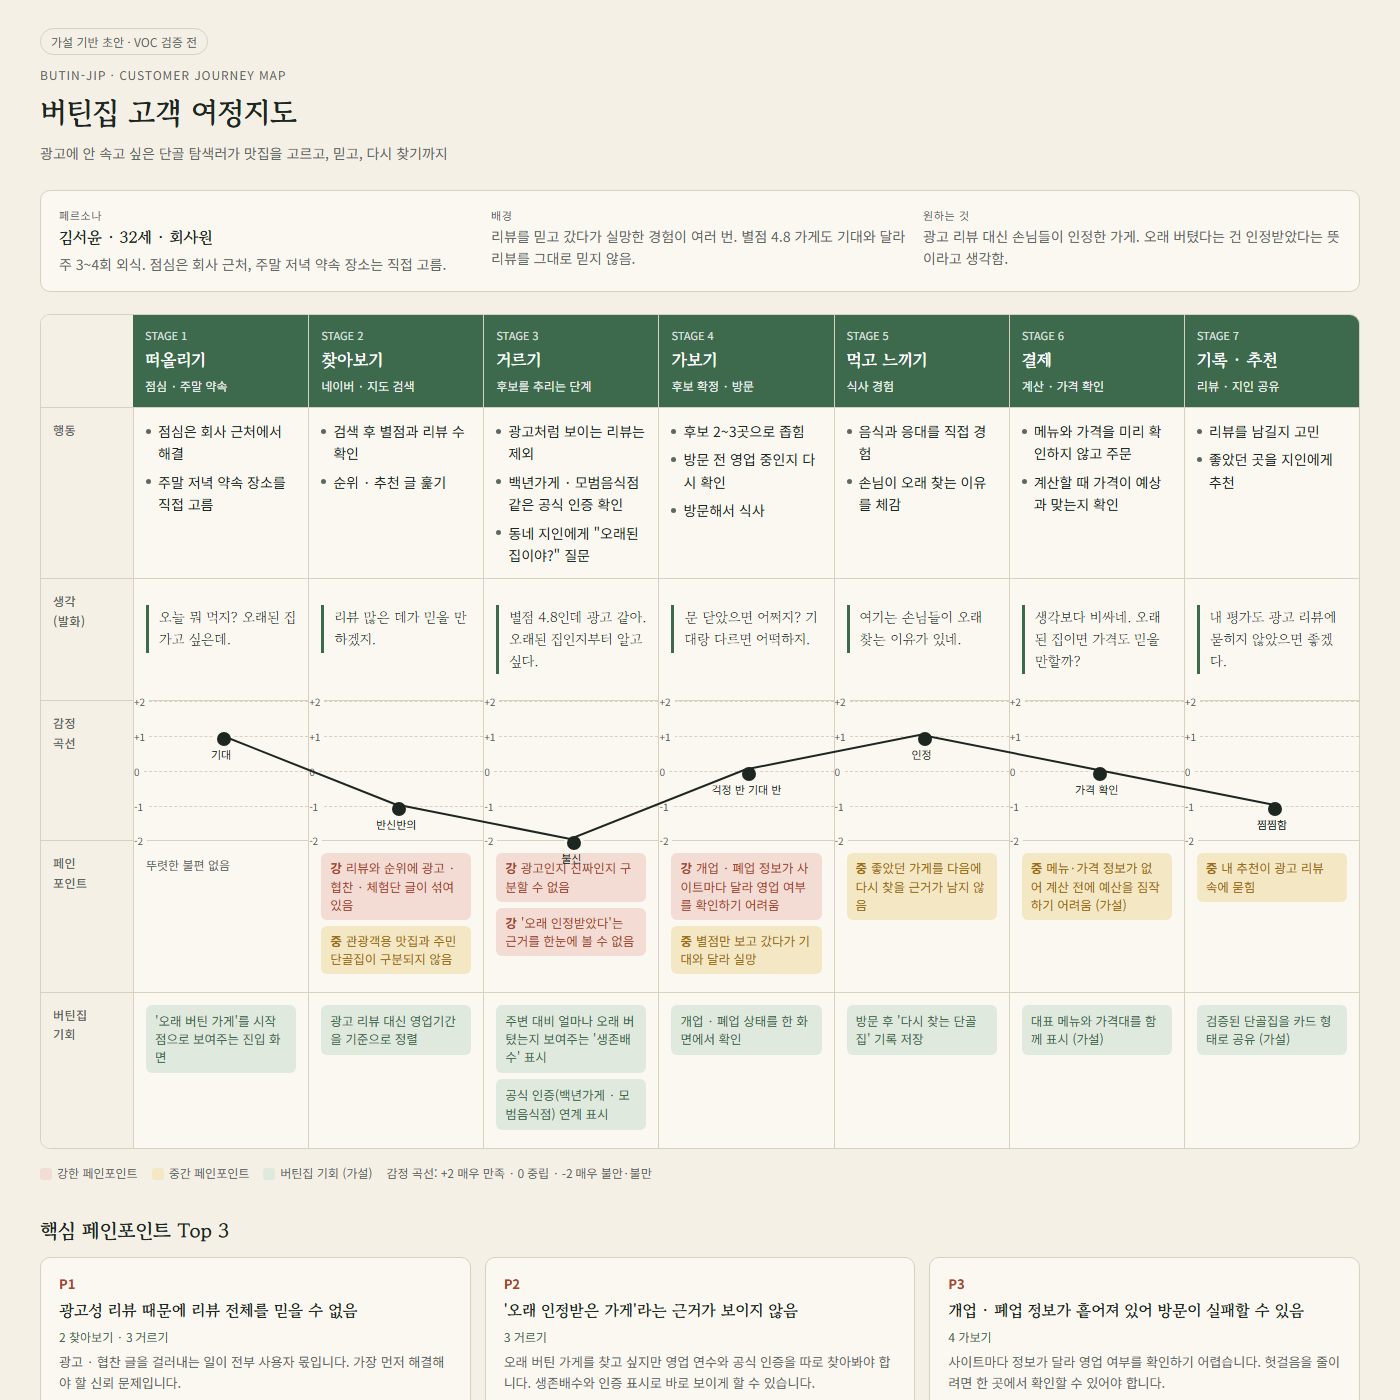
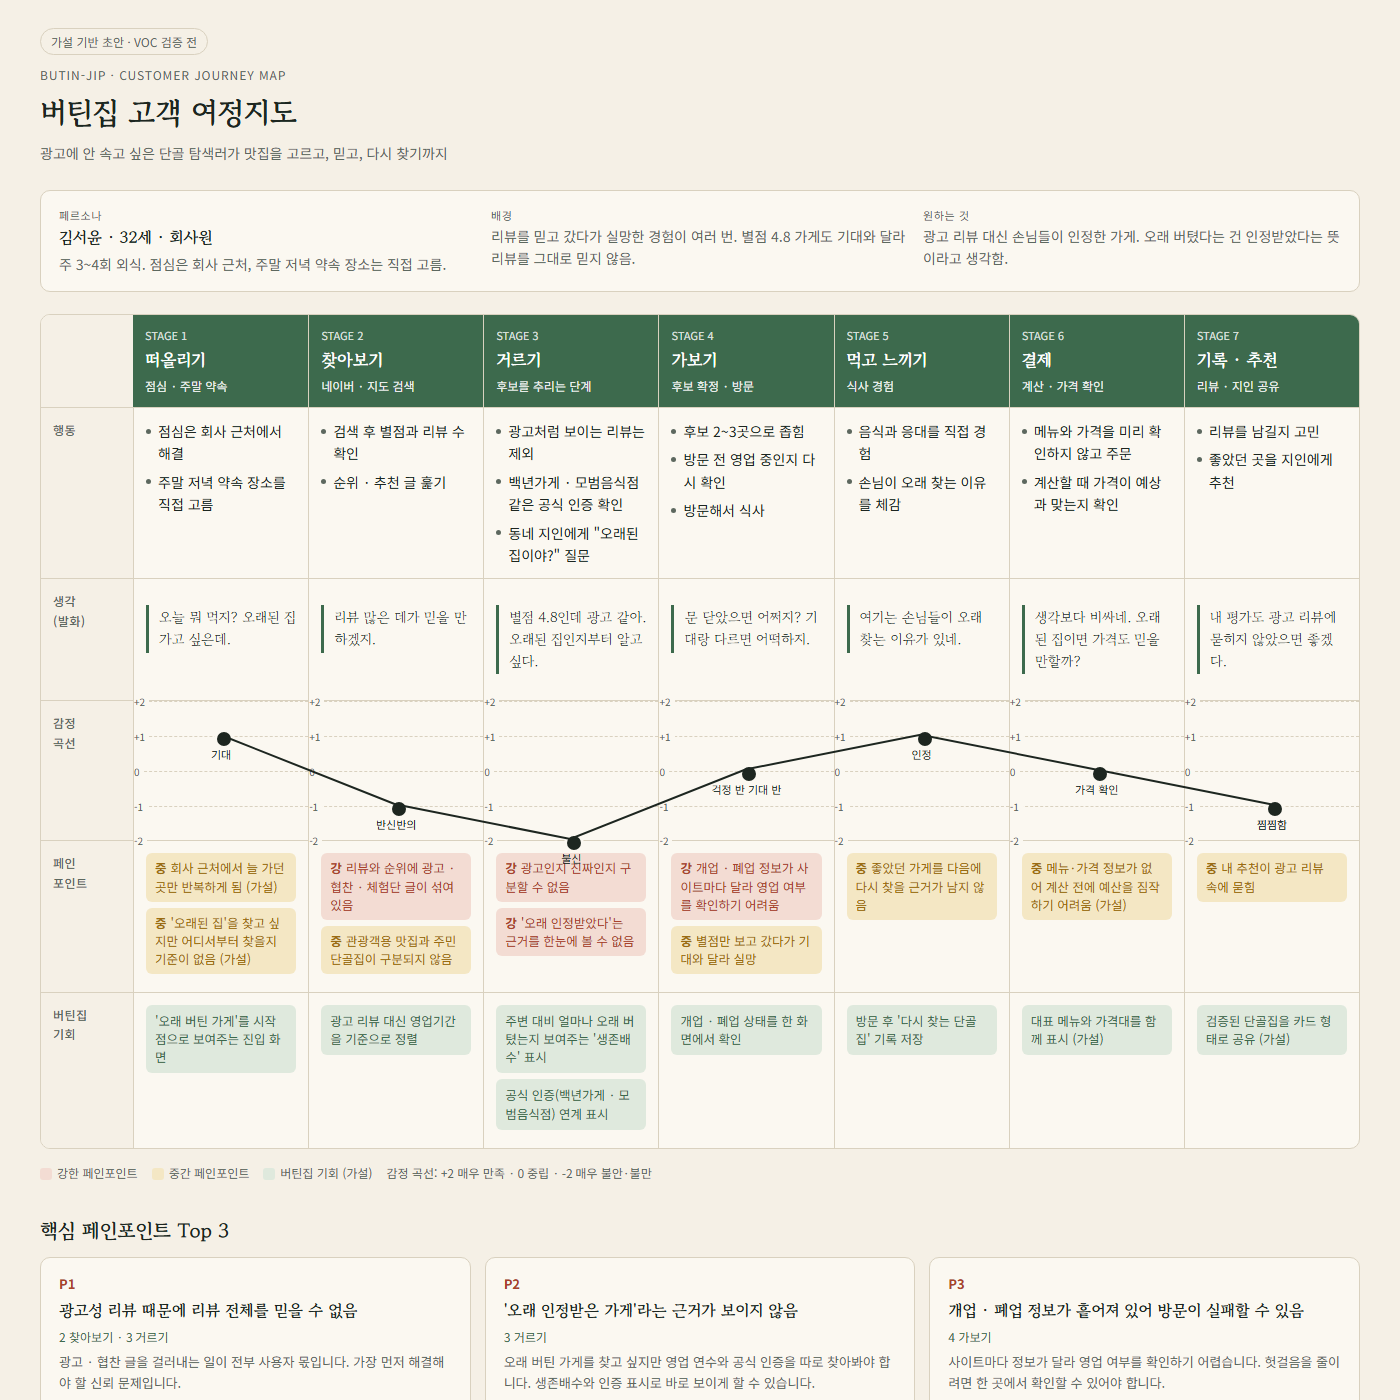
11월 9일 실습: 떠올리기 단계 페인포인트 추가

Changed region(s): [[0.0921, 0.5836, 0.215, 0.7064]]

diff --git a/1109실습/버틴집_고객여정지도.md b/1109실습/버틴집_고객여정지도.md
@@ -27,7 +27,9 @@
 - **행동**: 점심은 회사 근처에서 해결. 주말 저녁 약속 장소를 직접 고름
 - **생각(발화)**: "오늘 뭐 먹지? 오래된 집 가고 싶은데."
 - **감정**: +1 (기대)
-- **페인포인트**: 뚜렷한 불편 없음
+- **페인포인트**
+  - 🟡 **중**: 회사 근처에서 늘 가던 곳만 반복하게 됨 (가설)
+  - 🟡 **중**: '오래된 집'을 찾고 싶지만 어디서부터 찾을지 기준이 없음 (가설)
 - **버틴집 기회**: '오래 버틴 가게'를 시작점으로 보여주는 진입 화면
 
 ### 2. 찾아보기 (네이버 · 지도 검색)
